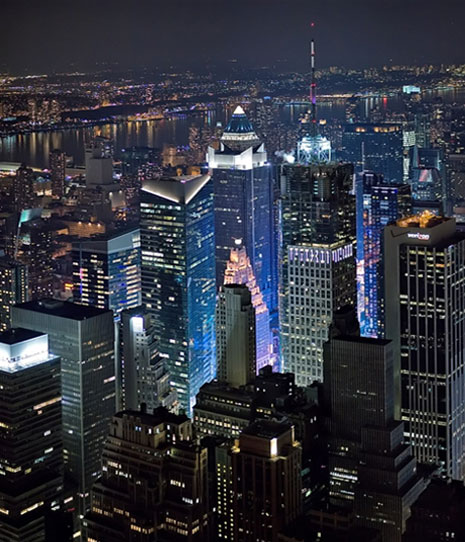
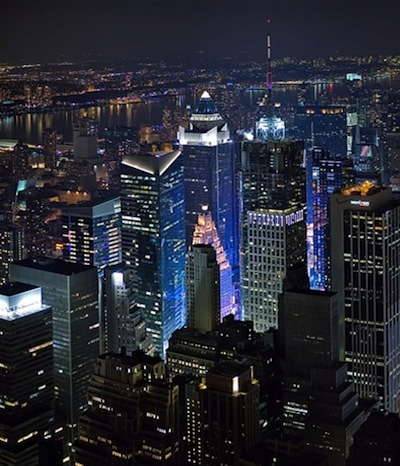
new create account screen, footer social links update, smaller images

diff --git a/app/assets/stylesheets/controllers/profiles/show.css.scss b/app/assets/stylesheets/controllers/profiles/show.css.scss
@@ -94,6 +94,7 @@
 .manage-users{
   display:inline-block;
   vertical-align:top;
+  height: 52px;
   img {
     float: left;
     max-height: 40px;
@@ -171,13 +172,7 @@
       padding-top: 13px;
     }
   
-  .or_bar{
-    width: 40%;
-    height: 1px;
-    margin-bottom: 3px;
-    background-color: #ccc;
-    display: inline-block;
-  }
+  
 
   .login_input{
     font-size: 25px;
@@ -352,3 +347,11 @@
   float: left;
   margin: .9em 1em 0 0;
 }
+
+.or_bar{
+    width: 40%;
+    height: 2px;
+    margin-bottom: 3px;
+    background-color: #bbb;
+    display: inline-block;
+  }

diff --git a/app/assets/stylesheets/controllers/users/sign_up.css.scss b/app/assets/stylesheets/controllers/users/sign_up.css.scss
@@ -1,0 +1,24 @@
+@import "unite/colors";
+
+.signup{
+  background-color: rgba(250,250,250,.9);
+  padding:30px;
+
+}
+
+.login_background{
+  background-image: url(/assets/tunnel.jpg);
+  padding:150px 0px 150px 0px;
+  background-size: cover;
+  background-position: top center;
+
+}
+
+.signup_button{
+  width: 100%;
+}
+
+.login_facebook img{
+  width: 100%;
+  max-width: 400px;
+}

diff --git a/app/assets/javascripts/components/header.js b/app/assets/javascripts/components/header.js
@@ -61,7 +61,7 @@ setupHeader=function(){
 		Application.header.toggle_nav(causes_html, 'causes')
 	});
 	*/
-	$('#login_button').click(function(event){
+	$('.login_button').click(function(event){
 		event.preventDefault();
 		Application.show_login_modal()
 	})

diff --git a/spec/features/devise/login_spec.rb b/spec/features/devise/login_spec.rb
@@ -10,7 +10,7 @@ describe 'devise', :js =>true do
 
   it 'Login modal should open when click login' do
     visit '/'
-    find('#login_button').click
+    find('.login_button').click
     sleep 2 #waiting for modals to appear 
     page.should have_content 'Login to your account'
   end
@@ -18,7 +18,7 @@ describe 'devise', :js =>true do
   it 'Login through modal should login successfully' do
     visit_path = '/'
     visit visit_path
-    find('#login_button').click
+    find('.login_button').click
 
     page.should have_content 'Login to your account'
 
